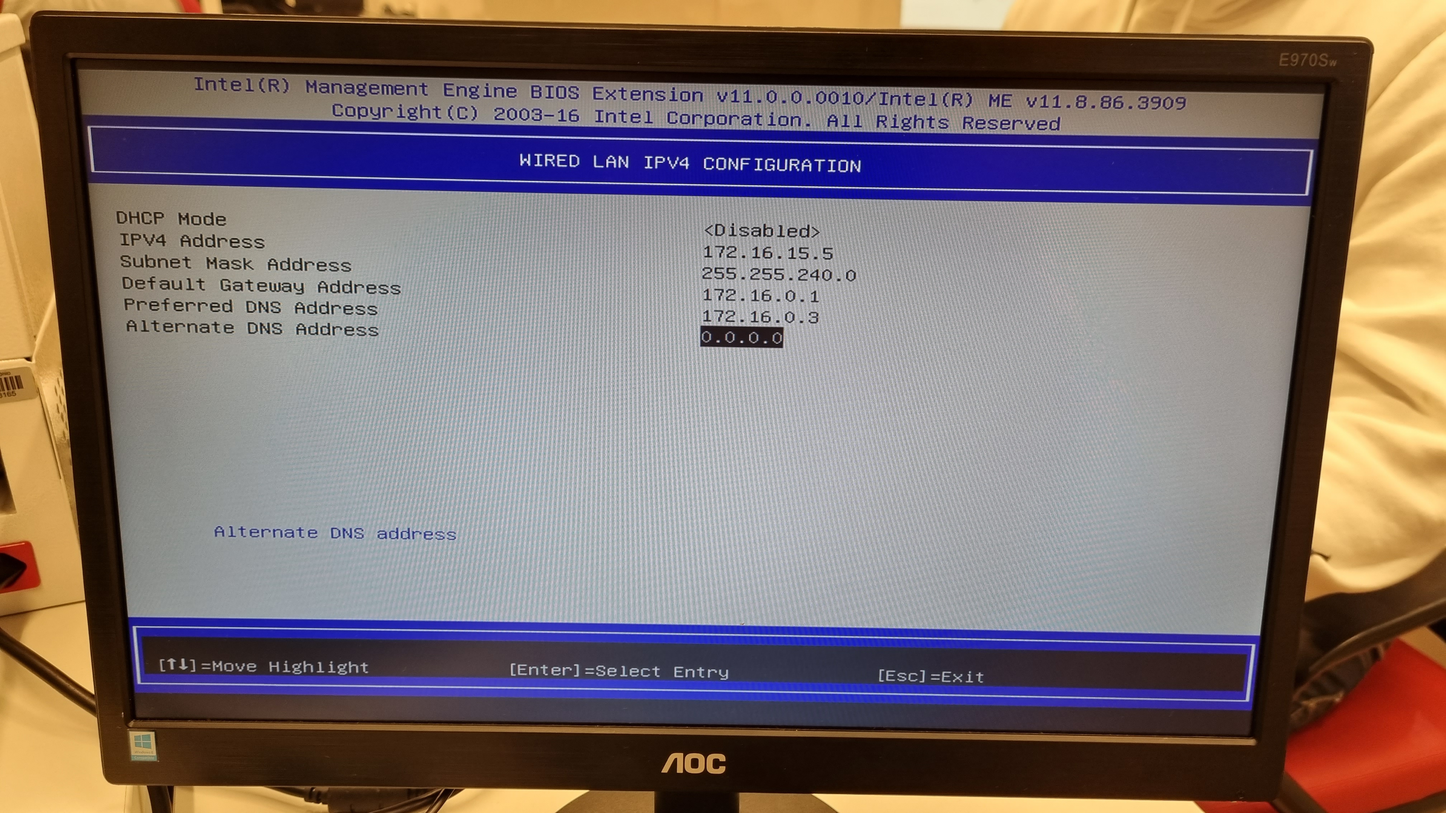
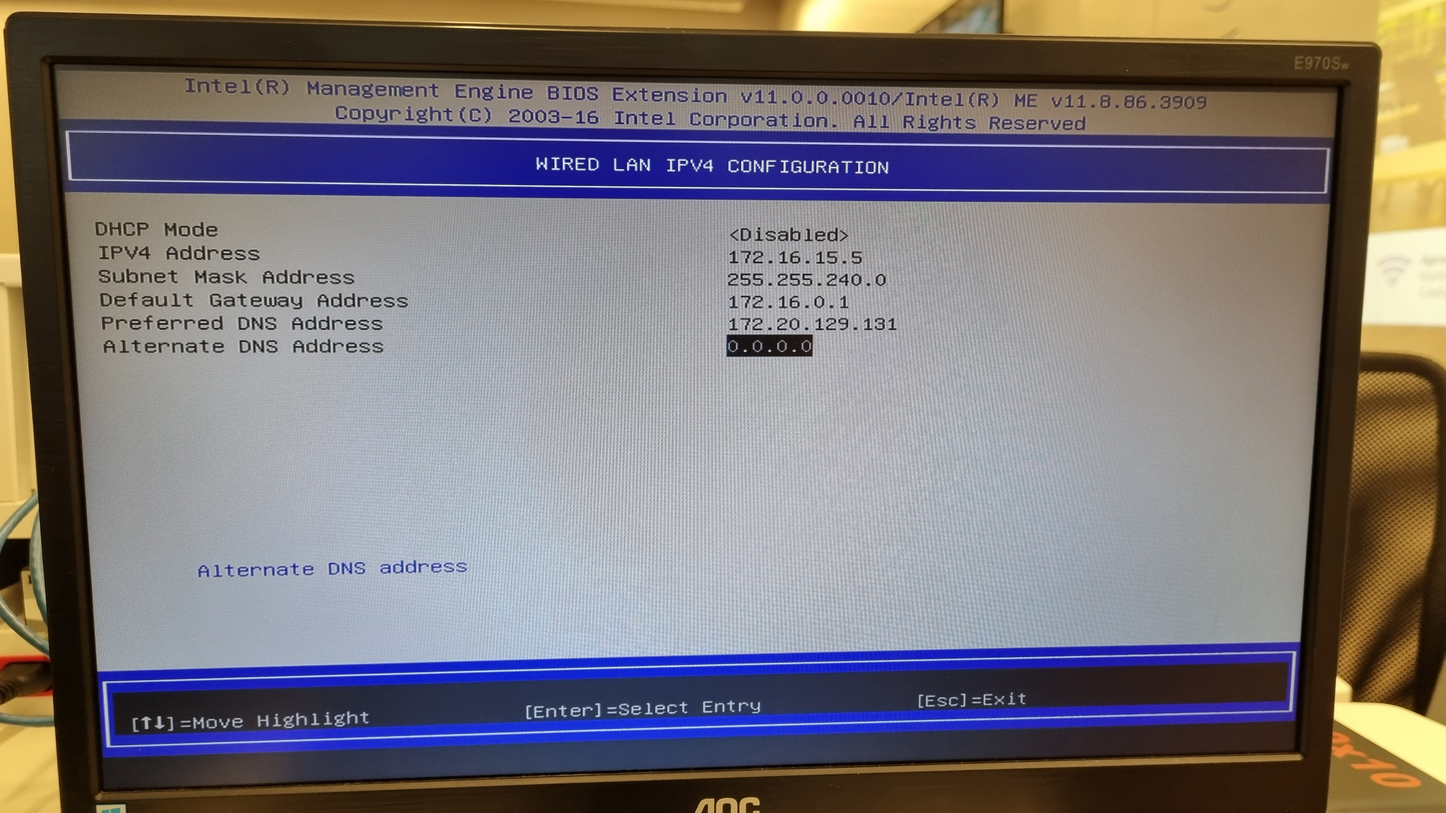
Alterando DNS config do Intel AMT

diff --git a/docs/roteiros/1.Bare_metal.md b/docs/roteiros/1.Bare_metal.md
@@ -158,7 +158,7 @@ Antes de começar a trabalhar nos servidores temos que configurar o IP do Intel 
 
   ![](../assets/images/IntelAmt5.jpg){width=600}
 
-  * altere os endereços do IPv4, gateway e DNS preferencial para que correspondam com a sub-rede criada previamente. No final os valores devem ficar parecidos com os da imagem abaixo:
+  * altere os endereços do IPv4, gateway para que correspondam com a sub-rede criada previamente e defina o DNS preferencial como o do Insper: 172.20.129.131. No final os valores devem ficar parecidos com os da imagem abaixo:
    
   ![](../assets/images/IntelAmt6.jpg){width=600}
 
